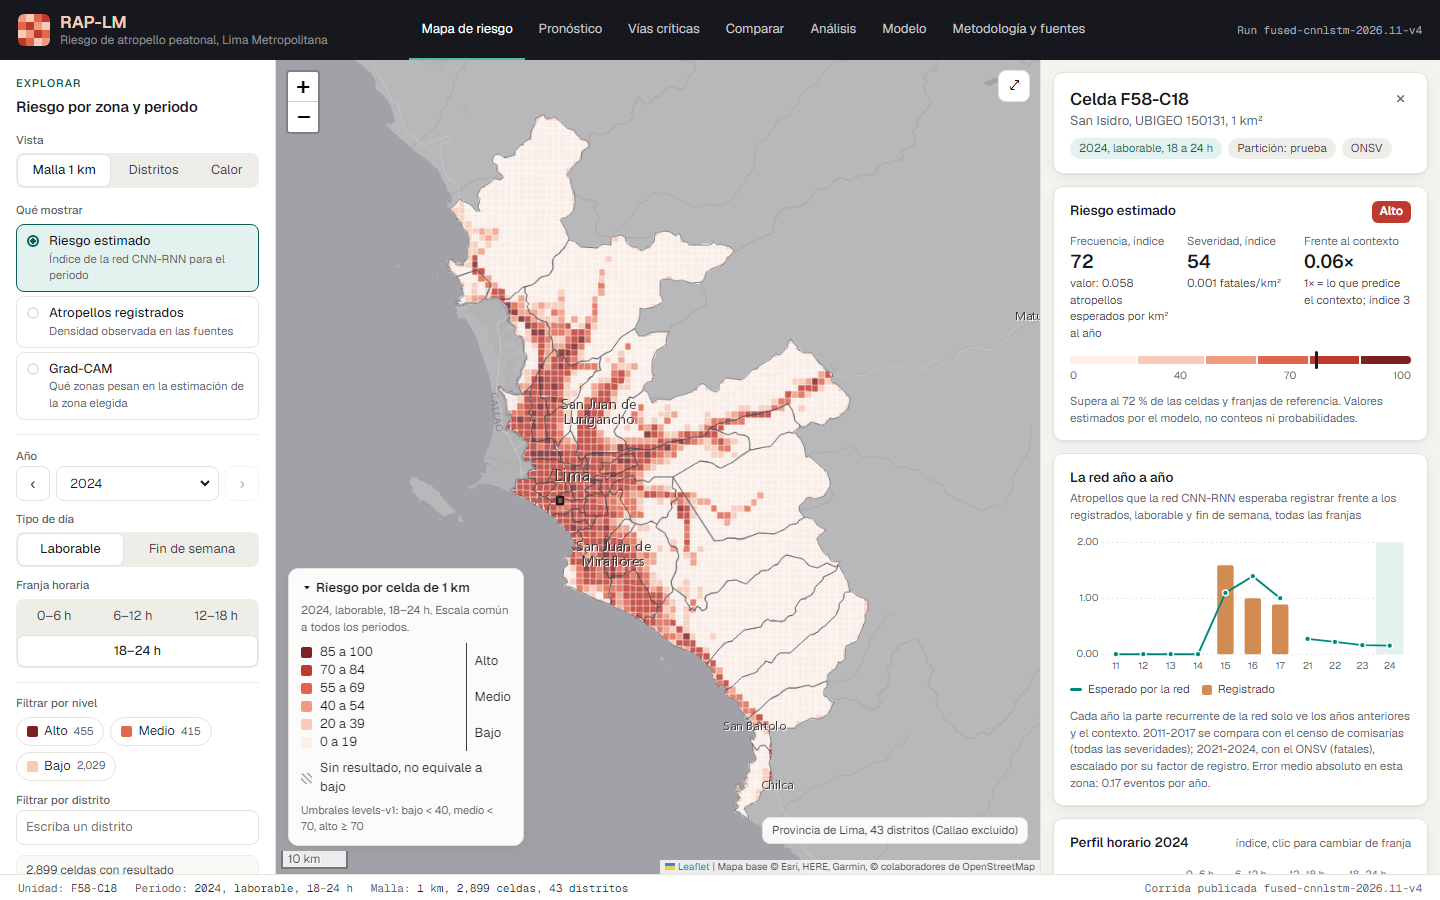
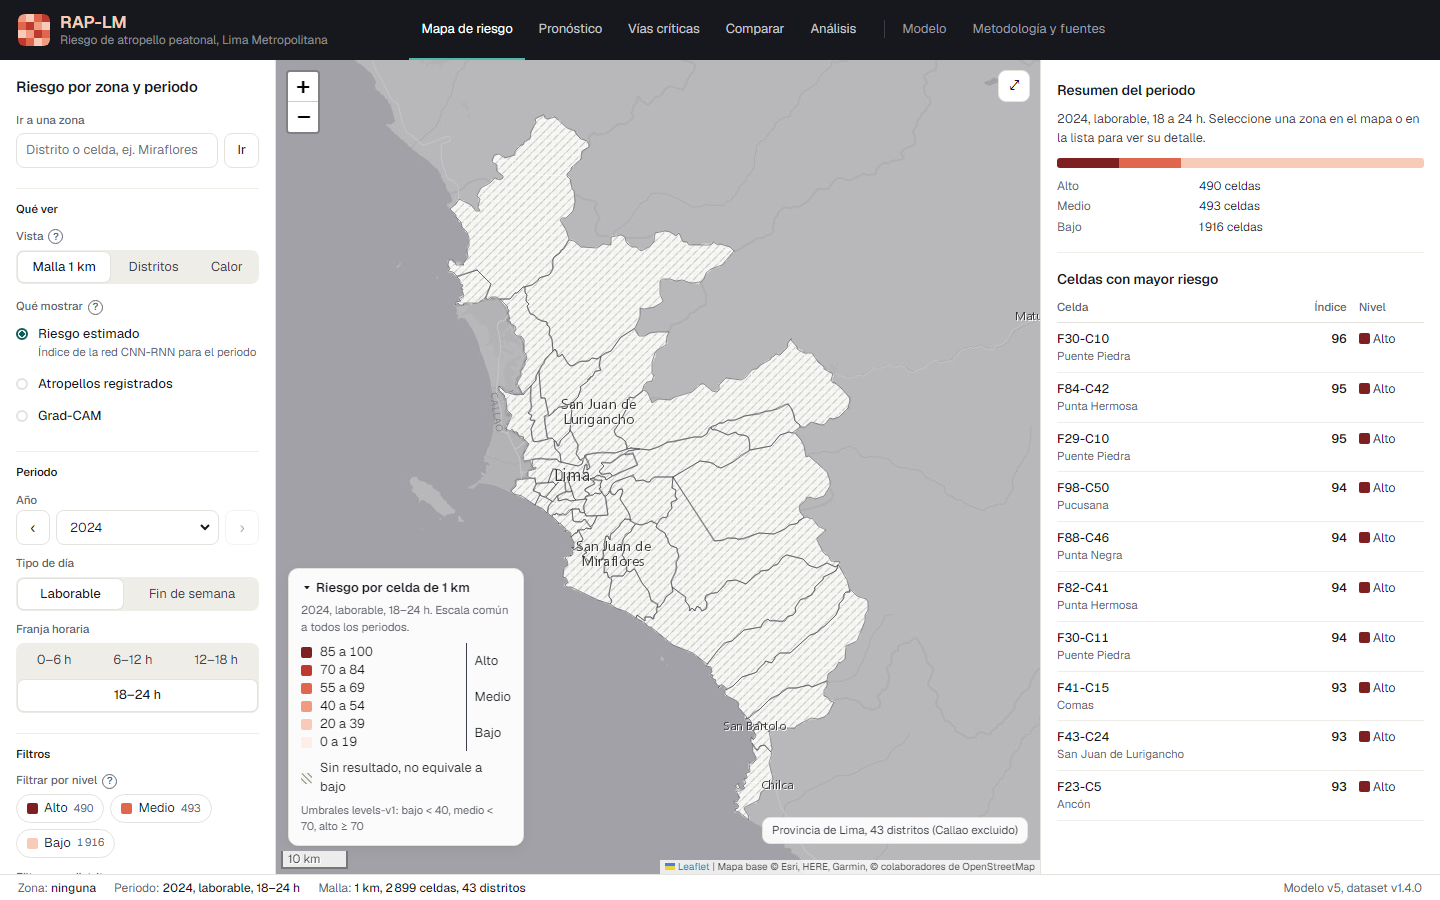
docs: refresh screenshots and README for v1.1.0 (model v5, documentation UI)

diff --git a/README.md b/README.md
@@ -23,7 +23,8 @@ analytical reference: no real-time prediction and no intervention recommendation
 - **Forecast** for 2025–2027, recursively projected from 2024, with ensemble disagreement and a separate one-year out-of-sample check.
 - **Critical streets** ranked by a smoothed collision rate, with vehicles and recorded factors per street.
 - **Explainability**: Grad-CAM map, variable-group attribution and context what-if.
-- **Model view** with architecture, training curves, benchmark and the full high-level confusion.
+- **Model view** documented as a technical report: architecture, training, out-of-sample evaluation, multi-year
+  horizons, ablation and references, with the repository file behind every table.
 
 | Zone detail | Forecast | Critical streets |
 |---|---|---|
@@ -71,11 +72,12 @@ H=$D/harmonized/RAP-LM-HARMONIZED/data/harmonized_crash_events.csv
 python -m pipelines.fusion --raw $D/raw/RAP-LM-DATA --harmonized $H --out artifacts/datasets/fused-v1.4.0
 python -m pipelines.fusion --raw $D/raw/RAP-LM-DATA --harmonized $H --station-proxy exclude \
   --out artifacts/datasets/fused-v1.4.0-exclude-station                              # sensitivity arm
-# 2. v4 (published, protocol v2 with amendment A3), trained on the GPU (CUDA environment, see below)
-R=artifacts/runs/fused-cnnlstm-2026.11-v4
-python -m ml.fused.search --dataset artifacts/datasets/fused-v1.4.0 --config ml/configs/v4-main.json --out $R
-python -m ml.fused.classification --dataset artifacts/datasets/fused-v1.4.0 --run $R
-#    benchmark arms: all-severity backtest and station sensitivity (not published)
+# 2. v5 (published, D-18): v4 architecture retrained on every observed year, fixed 150 epochs, on the GPU.
+#    Out-of-sample evidence: ml/experiments/v10.py and docs/ml/performance-v10.md
+R=artifacts/runs/fused-cnnlstm-2026.11-v5
+python -m ml.fused.search --dataset artifacts/datasets/fused-v1.4.0 --config ml/configs/v5-final.json --out $R
+python -m ml.experiments.evaluation_card --out $R/evaluation.json
+#    v4 benchmark arms (kept as history): all-severity backtest and station sensitivity
 python -m ml.fused.search --dataset artifacts/datasets/fused-v1.4.0 --config ml/configs/v4-backtest-2017.json \
   --out artifacts/runs/fused-cnnlstm-backtest-2017-v4
 python -m ml.fused.search --dataset artifacts/datasets/fused-v1.4.0-exclude-station \
@@ -85,6 +87,7 @@ python -m ml.fused.export --dataset artifacts/datasets/fused-v1.4.0 --run $R
 python -m ml.fused.explain --dataset artifacts/datasets/fused-v1.4.0 --run $R --device cuda
 python -m ml.fused.saliency --dataset artifacts/datasets/fused-v1.4.0 --run $R --device cuda
 python -m ml.fused.forecast --dataset artifacts/datasets/fused-v1.4.0 --run $R --steps 3
+python -m ml.fused.card_refresh --run $R --evaluation $R/evaluation.json
 python -m pipelines.fusion.corridors --dataset artifacts/datasets/fused-v1.4.0 --harmonized $H \
   --boundary $D/raw/RAP-LM-DATA/geography/boundaries/lima_43_districts_inei.geojson --results $R/results.csv
 # 4. Publish into PostGIS with the publisher role (atomic), then the analyst layers
@@ -92,11 +95,11 @@ export RAPLM_PUBLISHER_URL=postgresql://raplm_publisher:raplm_publisher_dev@127.
 python -m pipelines.publication.publisher --dataset artifacts/datasets/fused-v1.4.0 --run $R
 python -m pipelines.publication.extras --dataset artifacts/datasets/fused-v1.4.0 --run $R
 # 5. Reproducibility (M-04): retrain into a new folder on the same device and compare
-python -m ml.fused.search --dataset artifacts/datasets/fused-v1.4.0 --config ml/configs/v4-main.json \
-  --out artifacts/runs/fused-cnnlstm-2026.11-v4-repro
+python -m ml.fused.search --dataset artifacts/datasets/fused-v1.4.0 --config ml/configs/v5-final.json \
+  --out artifacts/runs/fused-cnnlstm-2026.11-v5-repro
 ```
 
-Earlier iterations (v1 on dataset v1.0, v2 on v1.1, v3 on v1.2 and v1.3) keep their configs in `ml/configs/`
+Earlier iterations (v1 on dataset v1.0, v2 on v1.1, v3 on v1.2 and v1.3, v4 on v1.4) keep their configs in `ml/configs/`
 and their evidence in `evidence/benchmarking/`.
 
 The same steps run inside the batch container: `docker compose --profile batch run --rm pipeline ...`.
@@ -105,7 +108,7 @@ The same steps run inside the batch container: `docker compose --profile batch r
 
 The code trains on CPU (8 threads, about 33 minutes per iteration) or, when the run config sets
 `"device": "cuda"`, on an NVIDIA GPU (about 5 minutes). A repeated GPU run reproduced weights and estimates byte
-for byte, so the published v4 trains on the GPU and M-04 is measured by retraining there. Prediction and export
+for byte, so the published model trains on the GPU and M-04 is measured by retraining there. Prediction and export
 run on CPU; explanations and Grad-CAM accept `--device cuda`. Install the CUDA
 environment from `requirements-gpu.txt` (outside the repository) and run the same commands with its interpreter.
 Each run manifest records the device type (`cpu` or `cuda`), the PyTorch version and the training time.
@@ -121,7 +124,7 @@ publication.
 
    ```bash
    RAPLM_REMOTE_OWNER_URL="<external URL of raplm-db>" python -m tools.deploy.remote_setup \
-     --dataset artifacts/datasets/fused-v1.4.0 --run artifacts/runs/fused-cnnlstm-2026.11-v4
+     --dataset artifacts/datasets/fused-v1.4.0 --run artifacts/runs/fused-cnnlstm-2026.11-v5
    ```
 
    It creates the reader and publisher roles, applies the migrations and publishes the run.
@@ -138,7 +141,7 @@ RAPLM_TEST_ADMIN_URL=postgresql://raplm_owner:raplm_owner_dev@127.0.0.1:5433/rap
 ruff check .
 cd apps/web && npm test && npm run typecheck && npm run build
 python -m tools.metrics.measure --api http://127.0.0.1:8088 --dataset artifacts/datasets/fused-v1.4.0 \
-  --run artifacts/runs/fused-cnnlstm-2026.11-v4 --rerun artifacts/runs/fused-cnnlstm-2026.11-v4-repro \
+  --run artifacts/runs/fused-cnnlstm-2026.11-v5 --rerun artifacts/runs/fused-cnnlstm-2026.11-v5-repro \
   --harmonized $H --out evidence/metrics                                                    # M-01..M-05, M-08, M-09
 cd apps/web && npx playwright test                                                          # M-07, 12 journeys
 python -m tools.reports.test_report && python -m tools.reports.benchmark                    # docs/pruebas, docs/benchmarking
